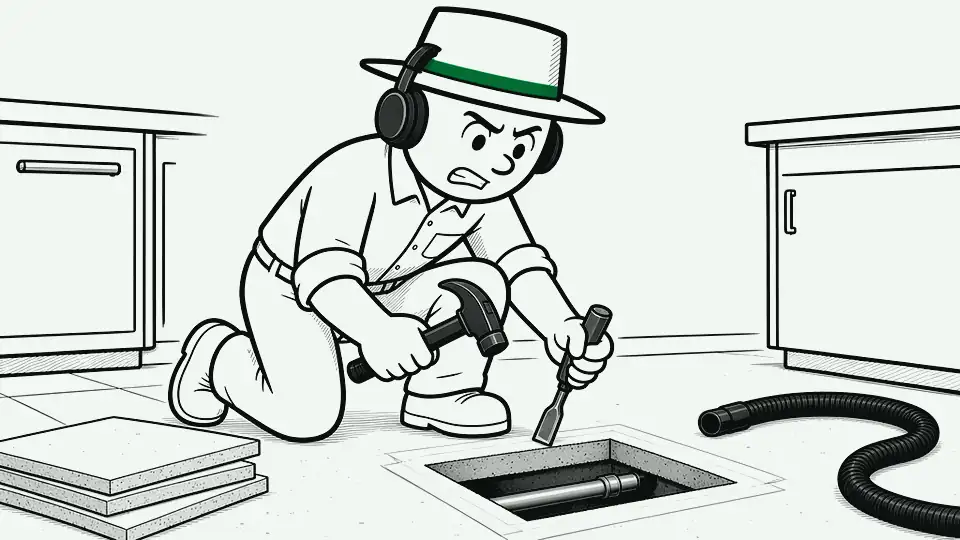
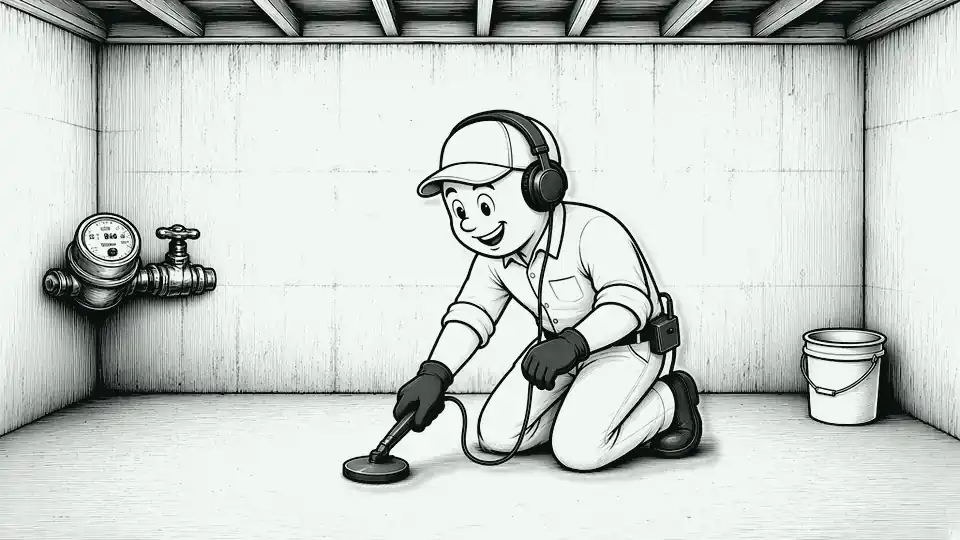
scenes: slab leak locate redrawn in v7 hand-inked style (6 frames)

diff --git a/scenes/slab.js b/scenes/slab.js
@@ -1,1 +1,1 @@
-(window.EESceneData=window.EESceneData||{})["slab"]={"kind":"kf","w":960,"h":540,"title":"Slab leak found and repaired","alt":"Main off, a moisture meter traces the wet line across the tile, the ground mic and headphones pinpoint the leak, a small neat access hole opens the slab, a coupling goes onto the exposed pipe, and the pressure gauge holds.","frames":[{"src":"scenes/kf/slab-1.webp?v=6","hold":560,"tw":{"x":-4},"o":[{"x":28,"y":281,"t":"word","text":"MAIN OFF","s":32}]},{"src":"scenes/kf/slab-2.webp?v=6","hold":560,"tw":{"y":-6},"o":[{"x":600,"y":56,"t":"word","text":"THERE!","s":43}]},{"src":"scenes/kf/slab-3.webp?v=6","hold":560,"tw":{"x":5,"ms":240},"o":[{"x":441,"y":131,"t":"effort","a":-60}]},{"src":"scenes/kf/slab-4.webp?v=6","hold":560,"tw":{"sy":0.99,"ms":200}},{"src":"scenes/kf/slab-5.webp?v=6","hold":760,"tw":{"y":8,"r":-1,"ms":300},"o":[{"x":850,"y":270,"t":"check"}]}],"placeholder":false};
+(window.EESceneData=window.EESceneData||{})["slab"]={"kind":"kf","w":960,"h":540,"title":"Slab leak located","alt":"With every tap off he checks the water meter and sees it still moving, scans the concrete floor with a thermal camera for a warm spot, listens through an acoustic ground microphone, marks the loudest spot with an X, listens again right on the X to confirm, and gives a thumbs-up with the leak pinned down.","frames":[{"src":"scenes/kf/slab-1.webp?v=7.2","hold":520,"tw":{"x":-3},"o":[{"x":525,"y":309,"t":"word","text":"METER MOVING","s":32}]},{"src":"scenes/kf/slab-2.webp?v=7.2","hold":520,"tw":{"y":-4},"o":[{"x":38,"y":375,"t":"word","text":"WARM SPOT?","s":34}]},{"src":"scenes/kf/slab-3.webp?v=7.2","hold":560,"tw":{"x":4,"ms":240},"o":[{"x":38,"y":375,"t":"word","text":"LISTEN","s":39}]},{"src":"scenes/kf/slab-4.webp?v=7.2","hold":480,"tw":{"sy":0.99,"ms":200},"o":[{"x":581,"y":309,"t":"word","text":"MARK IT","s":39}]},{"src":"scenes/kf/slab-5.webp?v=7.2","hold":560,"tw":{"y":-4},"o":[{"x":581,"y":309,"t":"word","text":"CONFIRMED","s":36}]},{"src":"scenes/kf/slab-6.webp?v=7.2","hold":1000,"tw":{"y":6,"r":-0.8,"ms":300},"o":[{"x":850,"y":270,"t":"check"}]}],"placeholder":false};
